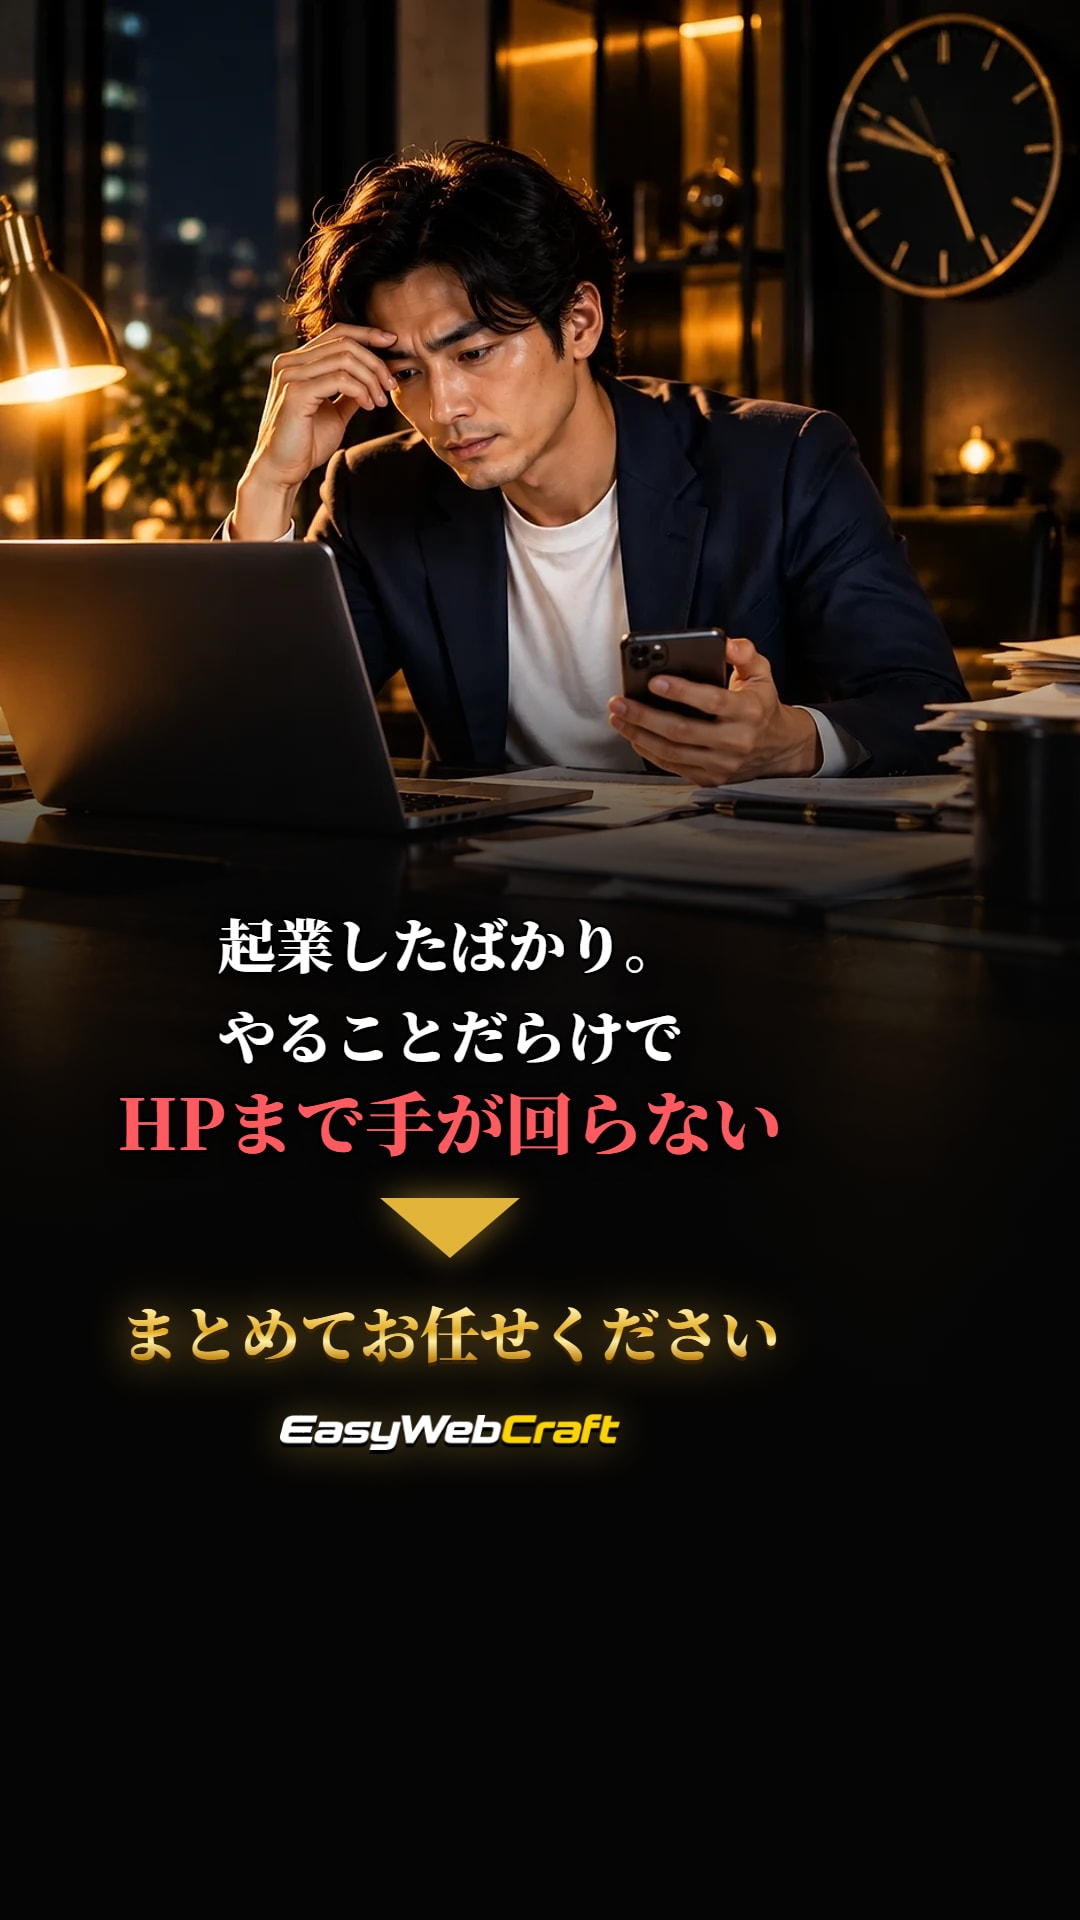
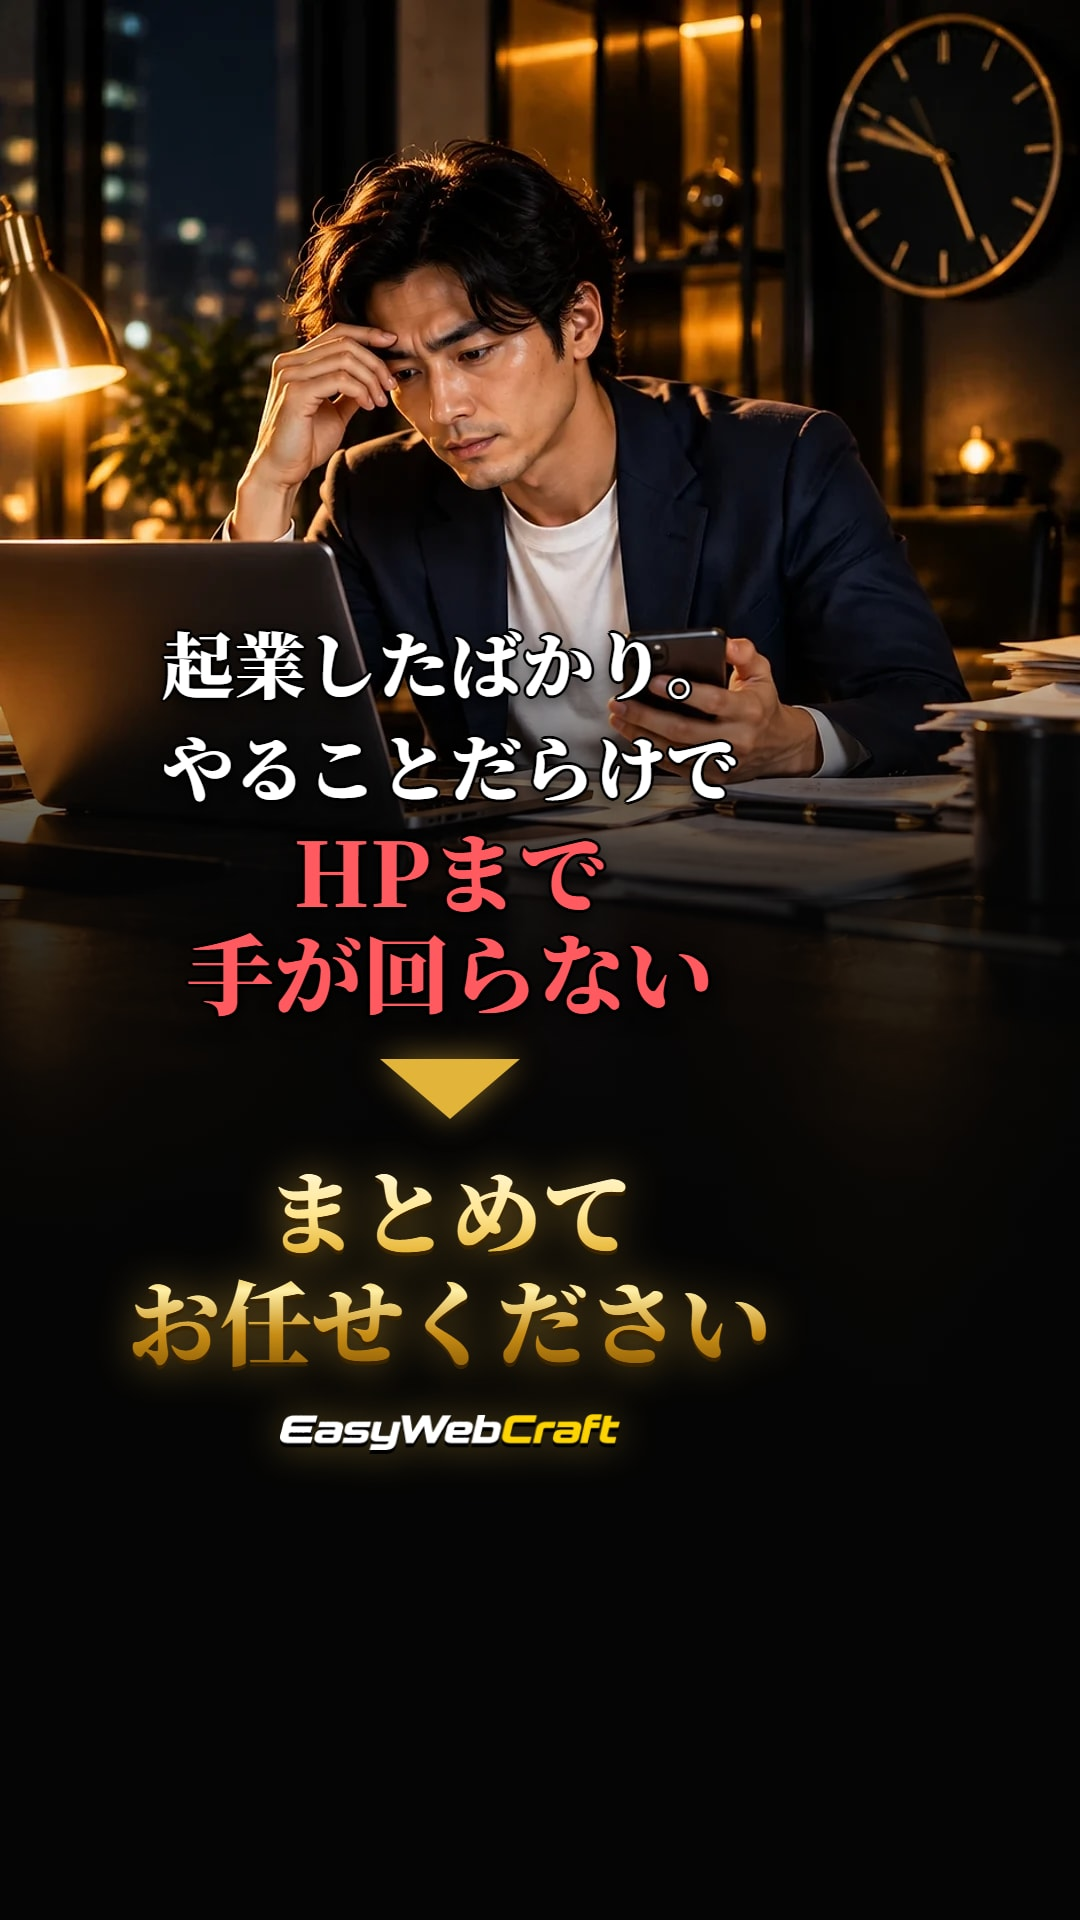
C5の文字を大きく
Claude-Session: https://claude.ai/code/session_01G65TiHfa1BUco43NvNDLJF

Changed region(s): [[0.0917, 0.3125, 0.7333, 0.7188]]

diff --git a/challenge/index.html b/challenge/index.html
@@ -49,7 +49,7 @@ code{background:var(--bg); padding:0 5px; border-radius:4px; font-size:.88em; wo
     <div class="card"><img src="jpg/c2b.jpg?v=10" alt="月額5,980円〜 安すぎて、ちょっと不安？"><div class="no"><b>C2-B</b>価格を先に見せる版</div><span class="tgt">価格に不安がある人</span><span class="star">C2とA/Bテスト</span><p class="cap">起業したばかりの方へ。制作費0円・月額5,980円〜。安すぎて、ちょっと不安？だから契約前に実物を見せます。HPデザイン案0円。</p></div>
     <div class="card"><img src="jpg/c3.jpg?v=10" alt="起業した。でも、どこに頼めばいい？"><div class="no"><b>C3</b>どこに頼めばいい？</div><span class="tgt">依頼先で迷っている人</span><span class="star">新規</span><p class="cap">起業した。ホームページも必要。でも、どこに頼めばいい？制作会社？フリーランス？自分で？デザインを見てから決めてください。</p></div>
     <div class="card"><img src="jpg/c4.jpg?v=10" alt="事業は決まった。でも、ホームページは何から始めればいい？"><div class="no"><b>C4</b>何から始めれば？</div><span class="tgt">HPの知識がない人</span><span class="star">顔出し</span><p class="cap">事業は決まった。でも、ホームページは何から始めればいい？何も決まってなくてOK。</p></div>
-    <div class="card"><img src="jpg/c5.jpg?v=10" alt="起業したばかり。やることだらけでHPまで手が回らない"><div class="no"><b>C5</b>手が回らない</div><span class="tgt">本業が忙しい人</span><span class="star">顔出し</span><p class="cap">起業したばかり。やることだらけでHPまで手が回らない。まとめてお任せください。</p></div>
+    <div class="card"><img src="jpg/c5.jpg?v=11" alt="起業したばかり。やることだらけでHPまで手が回らない"><div class="no"><b>C5</b>手が回らない</div><span class="tgt">本業が忙しい人</span><span class="star">顔出し</span><p class="cap">起業したばかり。やることだらけでHPまで手が回らない。まとめてお任せください。</p></div>
     <div class="card"><img src="jpg/c6.jpg?v=10" alt="起業したばかりだから、HPに大金はかけられない"><div class="no"><b>C6</b>安心3点セット</div><span class="tgt">比較検討中の人（リターゲティング向き）</span><p class="cap">HPに大金はかけられない。初期費用0円・デザイン案0円・月額5,980円〜（税別）。</p></div>
   </div>
 

diff --git a/challenge/ads.html b/challenge/ads.html
@@ -176,6 +176,12 @@ body{width:1080px; font-family:"Noto Sans JP",sans-serif; color:#fff; background
 #c1 .price .n{font-size:150px !important}
 #c1 .fine,#c2b .fine{font-size:24px !important}
 #c2b .in{bottom:500px !important}
+/* C5：文字を大きく（2026-09-30） */
+#c5 .in{top:600px !important}
+#c5 .serif.outline{font-size:72px !important; line-height:1.3 !important}
+#c5 .serif.outline .red{font-size:88px !important; line-height:1.15 !important; display:inline-block; margin-top:6px}
+#c5 .serif.gold{font-size:92px !important; line-height:1.2 !important; white-space:normal !important}
+#c5 .arrow{margin:4px 0}
 </style>
 </head>
 <body>
@@ -277,11 +283,11 @@ body{width:1080px; font-family:"Noto Sans JP",sans-serif; color:#fff; background
     <div class="sp"></div>
     <p class="serif outline" style="font-size:64px">起業したばかり。</p>
     <div class="g10"></div>
-    <p class="serif outline" style="font-size:64px; line-height:1.35">やることだらけで<br><span class="red" style="font-size:1.2em">HPまで手が回らない</span></p>
+    <p class="serif outline" style="font-size:64px; line-height:1.35">やることだらけで<br><span class="red" style="font-size:1.2em">HPまで<br>手が回らない</span></p>
     <div class="g30"></div>
     <div class="arrow"></div>
     <div class="g30"></div>
-    <p class="serif gold" style="font-size:70px; white-space:nowrap">まとめてお任せください</p>
+    <p class="serif gold" style="font-size:70px; white-space:nowrap">まとめて<br>お任せください</p>
     <div class="g40"></div>
     <img class="logo blogo" src="img/logo-fv.webp" alt="EasyWebCraft">
     <p class="cta">無料でデザイン案を見てみる</p>

diff --git a/challenge/tiktok-view.html b/challenge/tiktok-view.html
@@ -140,7 +140,7 @@ figcaption b{display:inline-block; background:#e3b43a; color:#1a1200; border-rad
 </figure>
 <figure class="ph">
   <div class="scr">
-    <img class="cr" src="jpg/c5.jpg?v=10" alt="手が回らない">
+    <img class="cr" src="jpg/c5.jpg?v=11" alt="手が回らない">
     <div class="top"><span>フォロー中</span><b>おすすめ</b><i>⌕</i></div>
     <div class="rail">
       <div class="av"><img src="img/logo-fv.webp" alt=""><em>＋</em></div>
